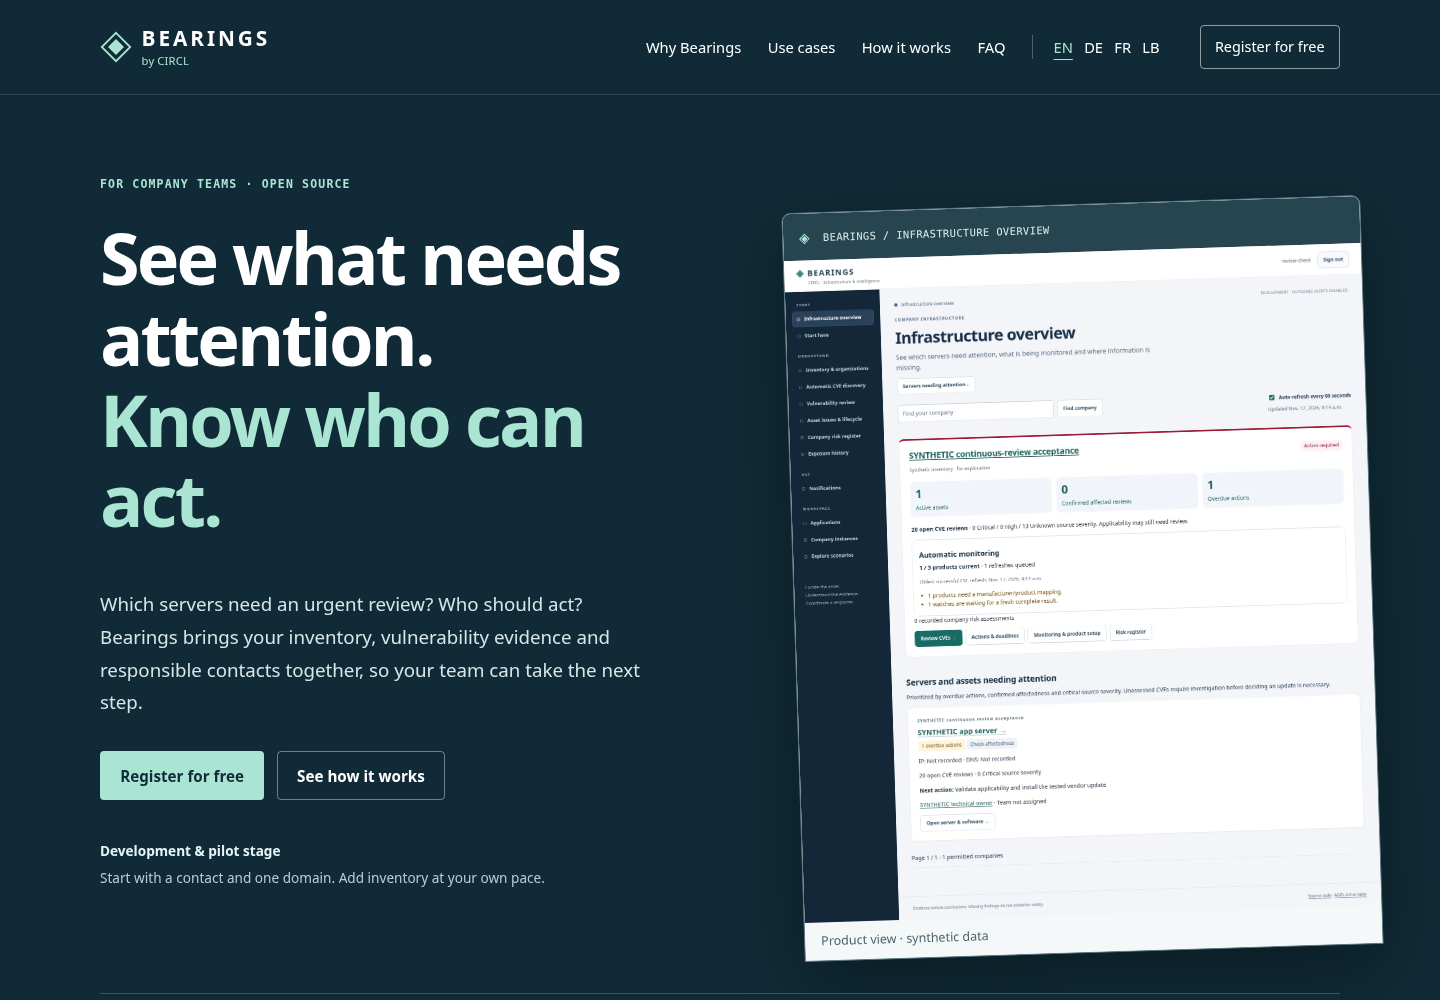
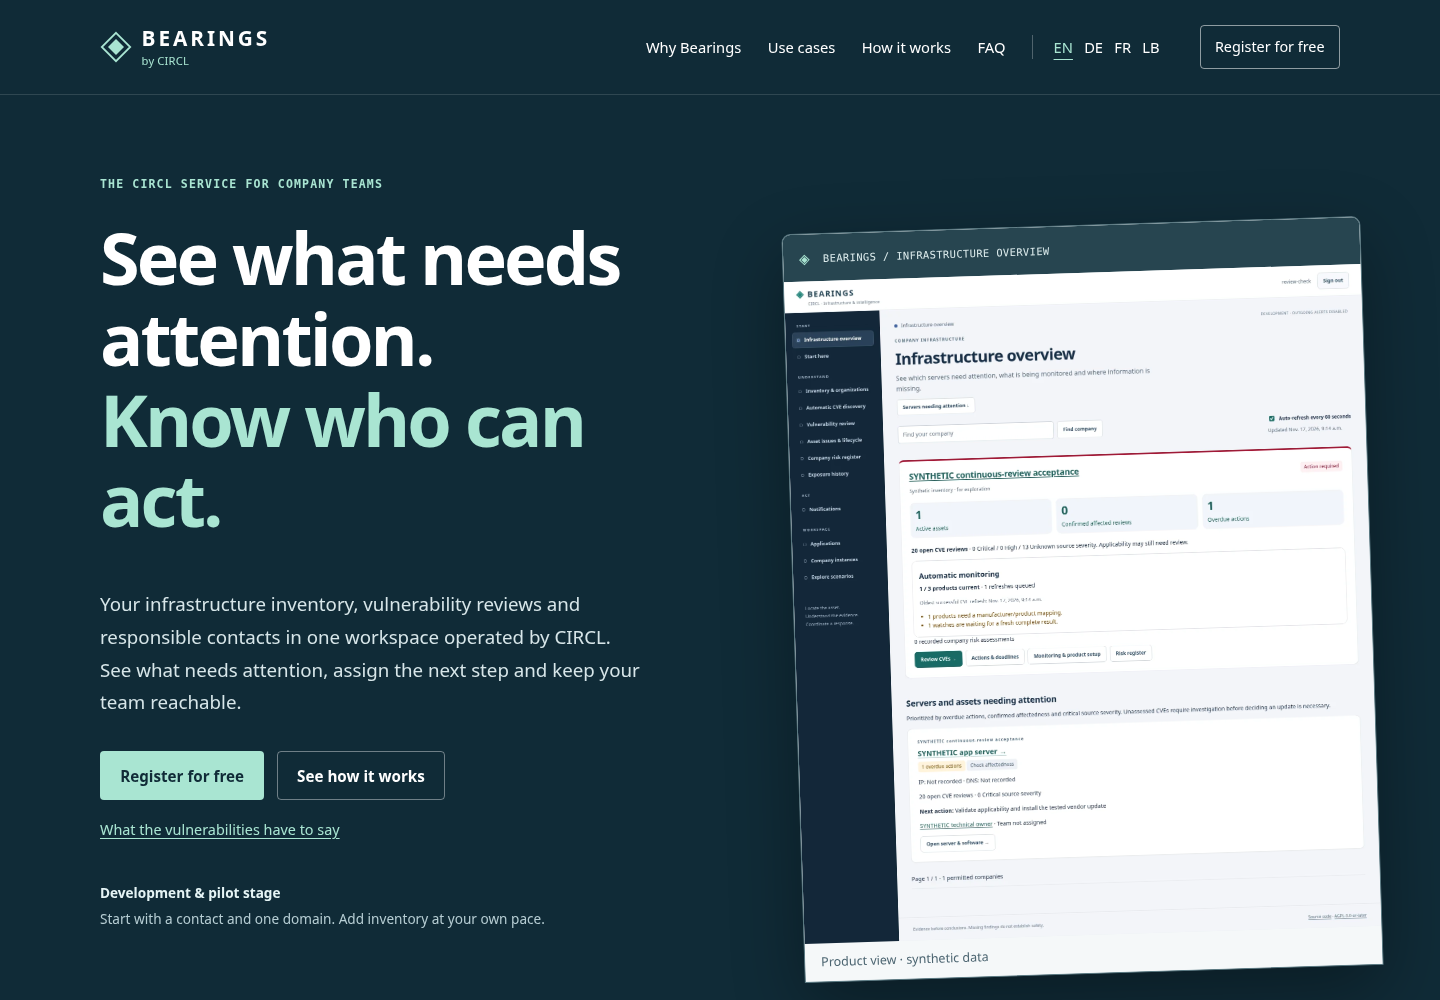
Focus landing pages on CIRCL SaaS and surface vulnerability testimonials

diff --git a/website/style.css b/website/style.css
@@ -3,3 +3,5 @@
 .integrations article{min-width:0;overflow-wrap:anywhere}@media(max-width:760px){.integrations{grid-template-columns:repeat(2,minmax(0,1fr))}}
 .vulnerabilities{grid-template-columns:repeat(6,minmax(0,1fr))}.vulnerability{grid-column:span 2;min-width:0}.vulnerability:nth-child(-n+2){grid-column:span 3}.quote-author strong{overflow-wrap:anywhere}@media(max-width:760px){.vulnerabilities{grid-template-columns:minmax(0,1fr)}.vulnerability,.vulnerability:nth-child(-n+2){grid-column:auto}}
 .brand-word{display:flex;flex-direction:column;line-height:1.2;gap:.2rem}.brand-word small{font:.7rem/1.2 system-ui,sans-serif;letter-spacing:.015em;font-weight:500;color:var(--mint)}.operator-band{background:#e8f3ef;border-bottom:1px solid #c5dcd3}.operator-band>.wrap{display:flex;align-items:center;justify-content:space-between;gap:3rem;padding-top:1.8rem;padding-bottom:1.8rem}.operator-band p{max-width:54rem;font-size:.98rem;margin:0;color:#285448}.operator-band .operator-name{font-weight:700;margin-bottom:.25rem;font-size:1.05rem}.operator-band a{font-size:.9rem;max-width:14rem;flex-shrink:0;color:var(--teal);font-weight:600}.operator-footer-link{font-size:.86rem;color:var(--teal)}@media(max-width:760px){.operator-band>.wrap{display:block}.operator-band a{display:inline-block;margin-top:1rem}.brand-word small{font-size:.65rem}}
+
+.hero-proof{font-size:.9rem;margin:1.1rem 0 0}.hero-proof a{color:var(--mint)}.hero-proof a:hover{color:#fff}

diff --git a/website/build.py b/website/build.py
@@ -58,8 +58,6 @@ def page(lang, faq=False, base="", registration="https://localhost:9441/register
         )
         + "</div>"
     )
-    local = urlsplit(registration).hostname in {"localhost", "127.0.0.1", "::1"}
-    registration_note = f'<p class="local-note">{E(c["local_note"])}</p>' if local else ""
     title = c["faq_page_title"] if faq else c["title"]
     canonical = base + (faq_url if faq else home)
     head = (
@@ -103,16 +101,16 @@ def page(lang, faq=False, base="", registration="https://localhost:9441/register
             f'<article class="vulnerability"><p class="eyebrow">{E(item["name"])}</p><blockquote>“{E(item[lang]["quote"])}”</blockquote><p class="quote-author"><strong>{E(item["cve"])}</strong><span>{E(c["fiction"])}</span></p><div class="real-fact"><h3>{E(c["fact_label"])}</h3><p>{E(item[lang]["fact"])}</p><h3>{E(c["benefit_label"])}</h3><p>{E(item[lang]["benefit"])}</p>{source_links(item, c)}</div></article>'
             for item in EXAMPLES
         )
-        main = f'''<section class="hero"><div class="wrap hero-grid"><div class="hero-copy"><p class="eyebrow">{E(c["eyebrow"])}</p><h1>{c["hero"]}</h1><p class="lead">{E(c["intro"])}</p><div class="actions"><a class="button primary" href="{E(registration)}">{E(c["primary"])}</a><a class="button ghost" href="#workflow">{E(c["secondary"])}</a></div><p class="stage"><strong>{E(c["status"])}</strong><span>{E(c["status_note"])}</span></p></div><div class="hero-visual"><div class="window-bar"><span aria-hidden="true">◈</span><span>BEARINGS / INFRASTRUCTURE OVERVIEW</span></div><a href="/assets/overview.webp" data-lightbox aria-label="{E(c["zoom"])}"><img class="hero-shot" src="/assets/overview.webp" alt="{E(c["hero_alt"])}" fetchpriority="high" width="1440" height="1653"></a><p class="hero-caption">{E(c["screen"])}</p></div></div><div class="hero-rule wrap"><span>INVENTORY</span><span>EVIDENCE</span><span>RISK</span><span>RESPONSE</span></div></section>
+        main = f'''<section class="hero"><div class="wrap hero-grid"><div class="hero-copy"><p class="eyebrow">{E(c["eyebrow"])}</p><h1>{c["hero"]}</h1><p class="lead">{E(c["intro"])}</p><div class="actions"><a class="button primary" href="{E(registration)}">{E(c["primary"])}</a><a class="button ghost" href="#workflow">{E(c["secondary"])}</a></div><p class="hero-proof"><a href="#testimonials">{E(c["testimonials_link"])}</a></p><p class="stage"><strong>{E(c["status"])}</strong><span>{E(c["status_note"])}</span></p></div><div class="hero-visual"><div class="window-bar"><span aria-hidden="true">◈</span><span>BEARINGS / INFRASTRUCTURE OVERVIEW</span></div><a href="/assets/overview.webp" data-lightbox aria-label="{E(c["zoom"])}"><img class="hero-shot" src="/assets/overview.webp" alt="{E(c["hero_alt"])}" fetchpriority="high" width="1440" height="1653"></a><p class="hero-caption">{E(c["screen"])}</p></div></div><div class="hero-rule wrap"><span>INVENTORY</span><span>EVIDENCE</span><span>RISK</span><span>RESPONSE</span></div></section>
 <section class="operator-band"><div class="wrap"><div><p class="operator-name">{E(c["operator_label"])}</p><p>{E(c["operator_body"])}</p></div><a href="https://www.circl.lu/mission/rfc2350/">{E(c["operator_link"])}</a></div></section>
 <section class="section wrap" id="why"><div class="section-intro"><p class="eyebrow">{E(c["why_label"])}</p><h2>{c["why_title"]}</h2><p class="lead">{E(c["why_body"])}</p></div><div class="pillars">{pillars}</div></section>
-<section class="section real-examples"><div class="wrap"><p class="eyebrow">{E(c["real_label"])}</p><h2>{E(c["real_title"])}</h2><p class="lead">{E(c["real_intro"])}</p><div class="vulnerabilities">{examples}</div><p class="small">{E(c["source_note"])}</p></div></section>
+<section class="section real-examples" id="testimonials"><div class="wrap"><p class="eyebrow">{E(c["real_label"])}</p><h2>{E(c["real_title"])}</h2><p class="lead">{E(c["real_intro"])}</p><div class="vulnerabilities">{examples}</div><p class="small">{E(c["source_note"])}</p></div></section>
 <section class="section use-cases" id="use-cases"><div class="wrap"><p class="eyebrow">{E(c["cases_label"])}</p><h2>{c["cases_title"]}</h2>{cases}<p class="small map-note">{E(c["map_note"])}</p></div></section>
-<section class="section wrap" id="workflow"><div class="workflow-grid"><div><p class="eyebrow">{E(c["workflow_label"])}</p><h2>{E(c["workflow_title"])}</h2><ol class="steps">{steps}</ol><a class="text-link" href="{DOCS}/user-guide/company-first-steps.md">{E(c["get_started"])}</a></div>{figure("wizard.webp", c["wizard_alt"], c, "wizard-shot")}</div></section>
+<section class="section wrap" id="workflow"><div class="workflow-grid"><div><p class="eyebrow">{E(c["workflow_label"])}</p><h2>{E(c["workflow_title"])}</h2><ol class="steps">{steps}</ol><a class="text-link" href="{E(registration)}">{E(c["get_started"])}</a></div>{figure("wizard.webp", c["wizard_alt"], c, "wizard-shot")}</div></section>
 <section class="section ecosystem"><div class="wrap"><p class="eyebrow">{E(c["ecosystem_label"])}</p><h2>{c["ecosystem_title"]}</h2><div class="integrations">{integrations}</div><p class="ecosystem-note">{E(c["ecosystem_note"])}</p></div></section>
 <section class="section wrap trust"><p class="eyebrow">{E(c["trust_label"])}</p><h2>{E(c["trust_title"])}</h2><div class="trust-grid">{trust}</div></section>
 <section class="section faq-preview"><div class="wrap faq-preview-grid"><div><p class="eyebrow">{E(c["faq_label"])}</p><h2>{E(c["faq_title"])}</h2><a class="text-link" href="{faq_url}">{E(c["faq_all"])}</a></div><div>{"".join(question(i, lang) for i in FAQ if i["id"] in ["operator", "free", "start", "updates", "production"])}</div></div></section>
-<section class="section closing wrap" id="register"><div><p class="eyebrow">BEARINGS · AGPL-3.0-OR-LATER</p><h2>{E(c["closing"])}</h2><p class="lead">{E(c["closing_body"])}</p></div><div class="actions"><a class="button primary" href="{E(registration)}">{E(c["primary"])}</a><a class="button secondary" href="{DOCS}/README.md">{E(c["nav"][4])}</a>{registration_note}</div></section>'''
+<section class="section closing wrap" id="register"><div><p class="eyebrow">BEARINGS · AGPL-3.0-OR-LATER</p><h2>{E(c["closing"])}</h2><p class="lead">{E(c["closing_body"])}</p></div><div class="actions"><a class="button primary" href="{E(registration)}">{E(c["primary"])}</a><a class="button secondary" href="{DOCS}/README.md">{E(c["nav"][4])}</a></div></section>'''
     end = f'''</main><footer class="footer"><div class="wrap footer-grid"><div><a class="brand" href="{home}">◈ BEARINGS</a><p><strong>{E(c["operator_label"])}</strong><br>{E(c["operator_body"])}</p><a class="operator-footer-link" href="https://www.circl.lu/mission/rfc2350/">{E(c["operator_link"])}</a></div><div class="footer-links"><a href="{DOCS}/README.md">{E(c["nav"][4])}</a><a href="{faq_url}">FAQ</a><a href="{REPO}/blob/{REF}/LICENSE">{E(c["license"])}</a><a href="#top">{E(c["back"])}</a></div></div><div class="wrap footer-meta"><p>{E(c["privacy"])}<br>{E(c["reviewed"])}</p><p>{E(c["credits"])}<br><a href="https://www.naturalearthdata.com/">Natural Earth</a> · <a href="https://www.geonames.org/">GeoNames</a> · <a href="https://creativecommons.org/licenses/by/4.0/">CC BY 4.0</a></p></div></footer><dialog id="image-dialog" aria-label="{E(c["zoom"])}"><button type="button" data-close>{E(c["close"])}</button><img alt=""></dialog></body></html>'''
     return start + main + end
 

diff --git a/docs/faq.md b/docs/faq.md
@@ -6,9 +6,9 @@ Reviewed 2026-11-19. This FAQ describes implemented development/pilot behavior, 
 
 Bearings connects a company's infrastructure inventory with vulnerability evidence, business risk, accountable contacts and follow-up. It gives company teams a view of what needs attention and gives authorized CIRCL analysts a view across participating organizations.
 
-## Who operates this installation?
+## Who operates the Bearings service?
 
-This Bearings installation is operated by CIRCL, the Computer Incident Response Center Luxembourg: the CERT for the private sector and municipalities in Luxembourg, mandated by the Ministry of the Economy. Bearings is open-source software; other installations can have different operators.
+This Bearings installation is operated by CIRCL, the Computer Incident Response Center Luxembourg: the CERT for the private sector and municipalities in Luxembourg, mandated by the Ministry of the Economy.
 
 ## Is company registration free?
 
@@ -28,7 +28,7 @@ Email confirmation opens the private company workspace. CIRCL reviews sharing se
 
 ## Can we reuse NetBox or import a spreadsheet?
 
-Yes. Operator-approved NetBox connections import devices, VMs, IPs and prefixes. A local manual inventory supports reviewed CSV imports up to 500 rows / 1 MB. Each company has one authoritative inventory source. A CSV upload does not write to NetBox; software/version details are separate from basic network discovery.
+Yes. Operator-approved NetBox connections import devices, VMs, IPs and prefixes. A manually maintained inventory supports reviewed CSV imports up to 500 rows / 1 MB. Each company has one authoritative inventory source. A CSV upload does not write to NetBox; software/version details are separate from basic network discovery.
 
 ## Does a CVE match mean a server needs a patch?
 
@@ -56,7 +56,7 @@ No. Companies can supply optional keywords, separate Honeytoken indicators and a
 
 ## How do data reviews and the email reaction test work?
 
-An administrator-configured schedule asks responsible people to review current contacts and inventory and confirm a snapshot through a link. Company users cannot disable required review emails for registered companies. Local file mail is the development default; operational SMTP needs configuration and acceptance. Prepared mail, relay acceptance, delivery and an actual owner response remain separate states.
+The service asks responsible people by email to review current contacts and inventory and confirm a snapshot through a link. The platform administration sets the review schedule; registered companies cannot disable required review emails. Message preparation, delivery and an actual response remain separate evidence, so a sent message alone does not count as confirmation.
 
 ## Can a security team or DPO be included?
 
@@ -64,15 +64,11 @@ A separate team mailbox can be supplied, for example security@, abuse@ or noc@. 
 
 ## Is SSO available across the ecosystem?
 
-Optional OIDC SSO and explicit identity bindings are implemented, with a tested bundled lab for Bearings, NetBox, FlowIntel and RT/RTIR. Each application keeps its own permissions. Inviting or removing a Bearings member does not automatically provision or revoke independent native accounts or sessions. External deployment and global lifecycle acceptance are still required.
+Your company uses its Bearings account to access the CIRCL-operated workspace. Optional single sign-on depends on the login methods enabled by the operator. Connected applications keep their own permissions; a company invitation does not automatically grant access to MISP, NetBox or incident-coordination tools.
 
 ## What happens if a company is registered twice or companies merge?
 
 A platform administrator can review a company merge. Source members join the target; duplicate users retain their target role. Supported local manual inventory and evidence transfer atomically, while the source is archived. Native identities, source-side external bindings and conflicting data require separate reconciliation. Similar company names never automatically grant membership or trigger a merge.
-
-## Can a company run its own Bearings installation?
-
-A bounded read-only snapshot federation pilot exists with explicit grants and source provenance. It is not unrestricted database replication, native MISP synchronization or a scalable delta federation service. Independent deployment, revocation/retention and larger-corpus synchronization need further operational acceptance.
 
 ## Is Bearings ready for production?
 

diff --git a/website/README.md b/website/README.md
@@ -1,6 +1,6 @@
 # Bearings static project website
 
-Company-first introduction in **English, German, French and Luxembourgish**. Includes practical benefits, company/CIRCL workflows, twenty FAQs, four synthetic product screenshots and five source-backed real vulnerability examples with explicitly fictional, humorous quotes.
+Company-first SaaS introduction in **English, German, French and Luxembourgish**. Includes practical benefits, company/CIRCL workflows, nineteen FAQs, four synthetic product screenshots and five source-backed real vulnerability examples with explicitly fictional, humorous quotes.
 
 **Local-only at the owner's request. Nothing has been deployed publicly.** The main call to action is free company registration at the existing local Bearings installation. The website is static HTML/CSS/JavaScript, with no dependencies, visitor analytics, forms, cookies or private connectors. Optional FAQ search and screenshot enlargement work in the browser; content, answers and image links remain available without JavaScript.
 
@@ -21,6 +21,7 @@ Open:
 - Français: `http://localhost:8050/fr/`
 - Lëtzebuergesch: `http://localhost:8050/lb/`
 - FAQ: add `faq/` to any language path.
+- Fictional vulnerability testimonials: follow the link below the main buttons, or open `/de/#testimonials` (the same anchor works in every language).
 
 The registration buttons point to **`https://localhost:9441/register/`**. Start the existing lab with `python3 scripts/dev.py up --no-build` and trust its CA if necessary. For a lab without the integrated HTTPS entrance, use `python3 website/serve.py --registration-url http://localhost:8000/register/`. This changes only the site's links; it does not create users, change the application registration policy or send mail.
 
@@ -34,7 +35,7 @@ python3 website/build.py \
   --registration-url https://your-bearings-installation.example/register/
 ```
 
-The builder rejects a public website origin combined with a loopback registration target, so localhost is not accidentally advertised publicly. Default local output is marked noindex and disallows crawling; an explicit public origin generates canonical/alternate-language metadata and a sitemap. Remove the local-preview note by configuring a non-loopback registration URL.
+The builder rejects a public website origin combined with a loopback registration target, so localhost is not accidentally advertised publicly. Default local output is marked noindex and disallows crawling; an explicit public origin generates canonical/alternate-language metadata and a sitemap. The marketing pages describe the CIRCL-operated service; local preview/deployment instructions remain in this technical guide.
 
 Copy the **contents of `website/dist/`** to a static HTTPS host. Serve at the origin root: asset/language links are root-relative. A subdirectory mount needs base-path adaptation. Enable directory `index.html` resolution; no SPA fallback is needed. A standalone `404.html` is included. Select the host/custom domain separately when ready; this change does not publish to GitHub Pages or Sites.
 
@@ -65,8 +66,10 @@ All product screenshots use fictional data. The Luxembourg map retains Natural E
 
 ## Review before publication
 
-1. Check all four translations and twenty FAQs against the implementation. Arrange native-language editorial review before an official public launch.
+1. Check all four translations and nineteen FAQs against the implementation. Arrange native-language editorial review before an official public launch.
 2. Recheck real vulnerability summaries/dates against the linked primary sources; retain the fiction labels and image attributions.
 3. Build; check internal links/fragments/assets and JavaScript syntax. Verify all eight pages at desktop/mobile widths, FAQ search/empty state, no-JavaScript content, language navigation, keyboard focus and image dialog.
 4. Configure the actual public registration URL, source branch and hostname. Confirm operator-specific legal/privacy information and support contacts without inventing them.
 5. Publish only when requested, preserving the chosen hosting identity. Record the returned live URL and source revision.
+
+The public-facing copy focuses on registration for the CIRCL-operated SaaS. Self-hosting/federation promotion and local-start CTAs are intentionally omitted; the loopback preview and developer build instructions here are not part of the landing-page pitch. License/source notices remain.

diff --git a/docs/validation.md b/docs/validation.md
@@ -720,3 +720,9 @@ Operator clarification in the same website task: at the owner’s request, all f
 Added `python3 website/serve.py`: it builds before starting, resolves output relative to the script rather than the shell's directory and binds loopback only. An occupied port exits with a stop/retry or alternate-port instruction instead of leaving an old wrong-directory server silently in use. English remains canonical at `/`, with generated `/en/` and `/en/faq/` aliases for static hosts. No application routes or public deployment changed.
 
 A real fresh temporary source copy without `dist/` was started from an unrelated working directory. HTTP checks confirmed `/`, `/de`, `/de/`, `/en`, `/en/`, `/en/faq/`, French/Luxembourgish and assets return 200 (including normal slash redirects), unknown paths retain 404, and a second server on the same port fails with the expected diagnostic. The owned test process was stopped. Eleven generated HTML pages pass link/fragment/asset checks. Frozen sync, Ruff, Django system/migration-drift and whitespace checks pass; no migration or new implementation-mirroring unit test was needed. The user's original server directory/build state was not observable; this removes both common startup causes without asserting which one occurred remotely.
+
+## SaaS-first landing copy and discoverable fictional testimonials (2026-11-19)
+
+All four landing pages now lead with the CIRCL-operated service and free company signup. The workflow CTA opens the configured registration target; self-hosting/federation promotion, local-start labels and the technical local-preview/mail message were removed from the public-facing content. Developer preview/build instructions remain in `website/README.md`, and the site still has no public deployment. The shared public FAQ now has nineteen entries after removing the own-installation/federation promotion; SSO and periodic mail answers describe the company service and retain independent rights/delivery evidence boundaries. Source/license notices remain.
+
+The five fictional vulnerability testimonial cards were present in the prior generated build but far down the page. Added a visible hero link in all languages and a stable `#testimonials` target, without hiding evidence or changing the fixture/factual labels. Chromium checked navigation from each localized hero to all five cards and the signup target; the existing eight-page desktop/mobile/FAQ/no-JS/dialog checks were rerun with nineteen answers. Eleven HTML pages pass local link/asset/fragment checks; JavaScript syntax, Ruff and whitespace checks pass. No backend behavior, real delivery, application data or hosting was changed. The user's remote build/cache state is not observable, so no claim is made that an absent remote build was reproduced.

diff --git a/docs/backlog.md b/docs/backlog.md
@@ -299,6 +299,10 @@ Membership administration now uses readable user/company/role labels and separat
 
 ## Project communication, FAQ and local static website
 
-Added a documentation index and shared twenty-question FAQ; reconciled stale overview/policy statements. A local-only static website in English, German, French and Luxembourgish explains immediate company benefits and free registration with synthetic product images. Five real vulnerability examples (including November 2026 NGINX2Root and Java/Java4Shell) have source links and visibly fictional humorous quotes. Public deployment is deferred at the owner’s request. See [website guide](../website/README.md), [source review](product/website-examples.md) and [next acceptance steps](product/next-priorities.md).
+Added a documentation index and shared nineteen-question FAQ; reconciled stale overview/policy statements. A local-only static website in English, German, French and Luxembourgish explains immediate company benefits and free registration with synthetic product images. Five real vulnerability examples (including November 2026 NGINX2Root and Java/Java4Shell) have source links and visibly fictional humorous quotes. Public deployment is deferred at the owner’s request. See [website guide](../website/README.md), [source review](product/website-examples.md) and [next acceptance steps](product/next-priorities.md).
 
 Local website recovery: `python3 website/serve.py` builds before serving the absolute output path, avoids working-directory 404s, reports occupied ports and accepts `/en/` as an English alias.
+
+The fictional vulnerability testimonials now have a prominent hero link in every language and the stable `#testimonials` anchor.
+
+Marketing scope: focus on the CIRCL-operated SaaS and free company registration. Removed self-hosting promotion, local-start CTAs and technical local-mail messaging from public copy; retained local-only preview instructions in the operator/developer guide.
